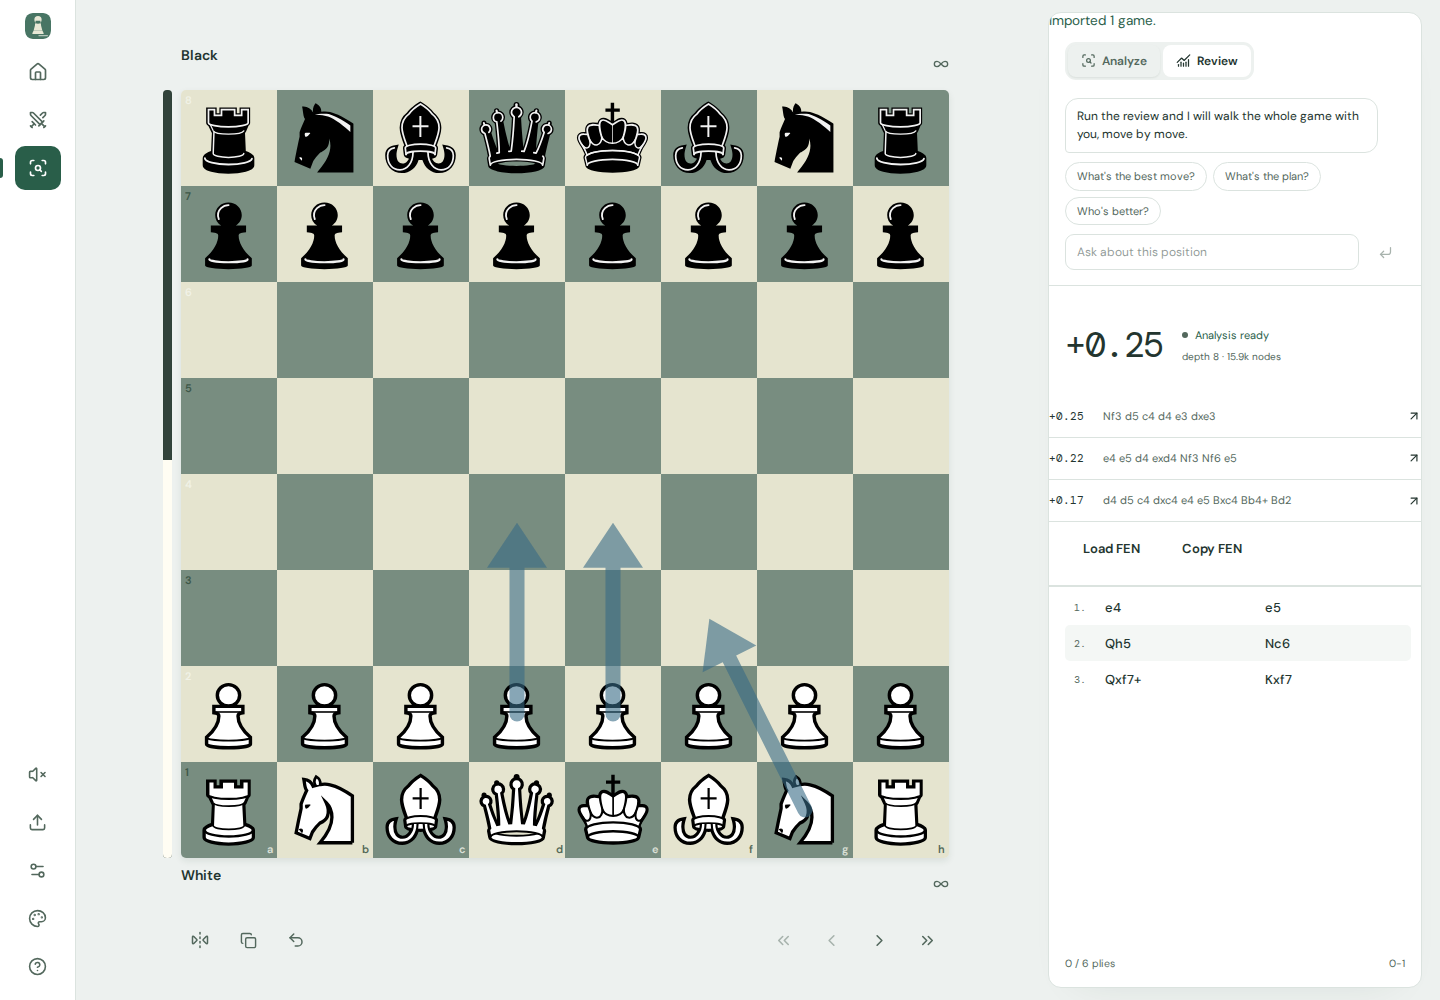
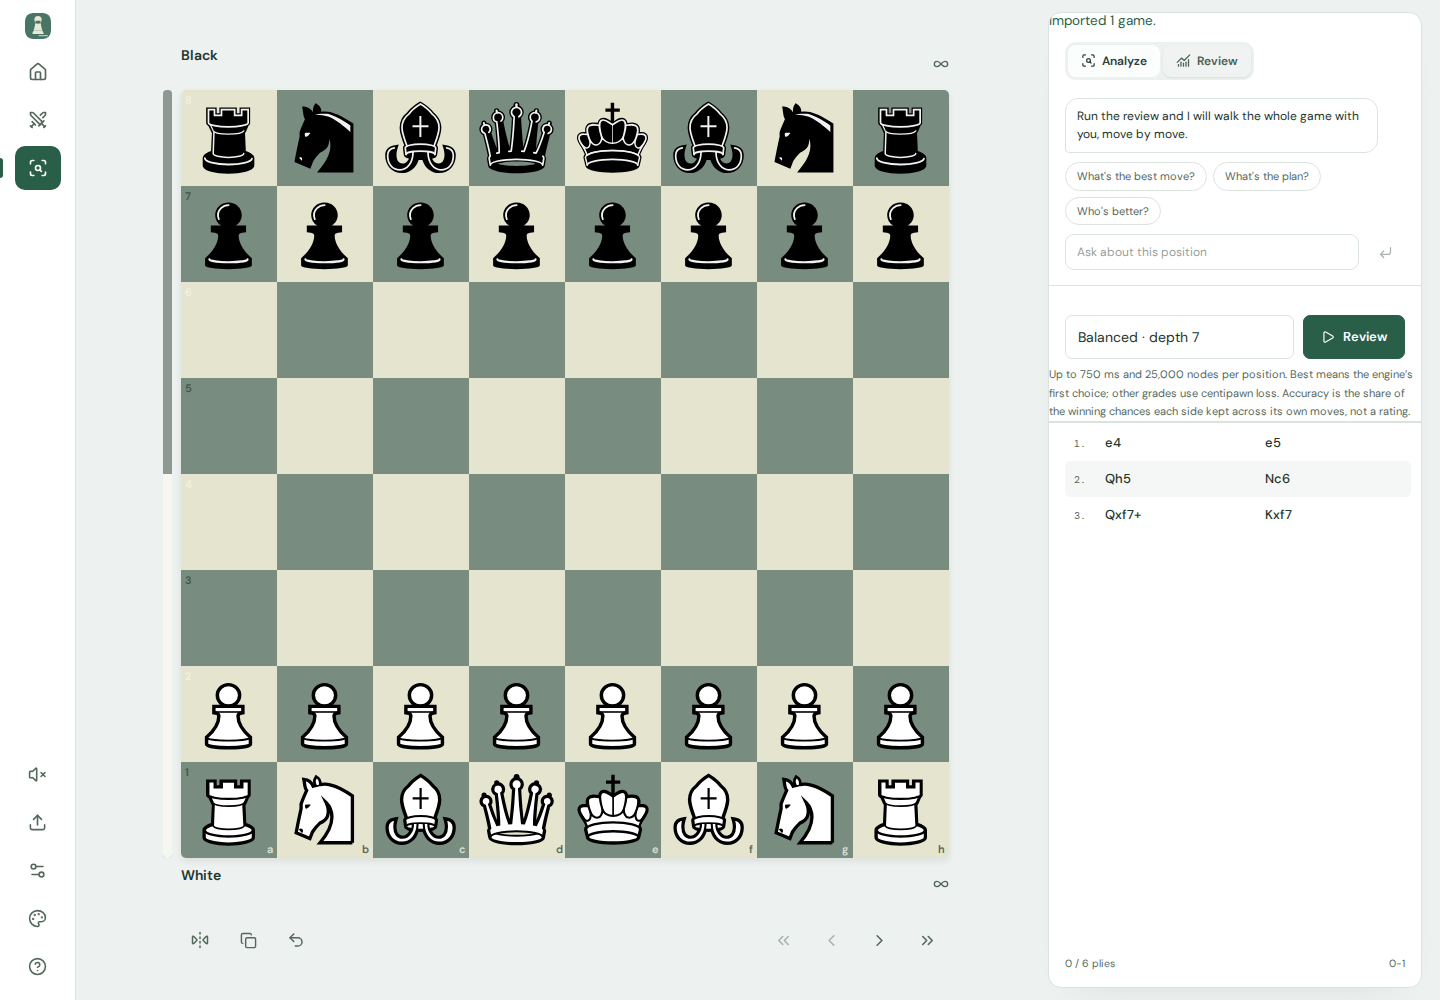
docs: record the rail's decided fill and each side's accuracy
The verification record gains the third pass over the shipped screens: the
decided rail, the settled-value rule behind it, and the accuracy report that
arrives with the end of a game. Four frames from the run that proved it — the
finished game in both themes on both sizes — join the evidence set, and the
review frames are re-captured because the study card's own fine print changed
with the accuracy report.

diff --git a/docs/verification.md b/docs/verification.md
@@ -214,8 +214,11 @@ npm run check:commit
 ## Visual evidence and limits
 
 Final production screenshots are kept as `docs/desktop-home.png`,
-`docs/desktop-play.png`, `docs/mobile-play.png`, `docs/desktop-review.png`, and
-`docs/mobile-review.png`. The published set depicts the `a27443b` shell; the same
+`docs/desktop-play.png`, `docs/mobile-play.png`, `docs/desktop-review.png`,
+`docs/mobile-review.png`, `docs/desktop-end-of-game.png`,
+`docs/desktop-end-of-game-dark.png`, `docs/mobile-end-of-game.png`, and
+`docs/mobile-end-of-game-dark.png` (the last four are the finished game, light
+and dark, on both sizes; see "Evaluation rail and accuracy" below). The published set depicts the `a27443b` shell; the same
 files were re-captured on 2026-10-02 from the redesigned shell (Home, Play,
 Study/Review) with real engine replies and a real restored record — still actual
 WASM-driven play, never fabricated UI data. On 2026-10-03 the whole set was
@@ -863,3 +866,65 @@ with their footers whole. Dark theme: the same frames with the dark surfaces.
 **What is not claimed.** The dark pass is Chromium only. The phone frames remain
 390×664 Chromium emulation, not physical hardware. Screenshots are the audit's
 own attachments, so they show exactly the state the assertions ran against.
+
+## Evaluation rail and accuracy (2026-10-03)
+
+Three complaints came out of using the shipped build: a decided game left the
+rail half filled instead of filling it for the side that won; on a phone the
+rail "bumps up to the upper a bit as progress then went back to actual one" move
+after move; and there was no accuracy score at the end of a game.
+
+All three were the same fault seen from different sides. The rail drew whatever
+report happened to be in state against the turn on the board, and the engine
+streams partial reports while it searches: mid-game the rail was showing a
+running guess, and once a game ended the report was cleared, so the rail fell
+back to its unknown half instead of the result. Nothing about a finished game
+reached the rail at all.
+
+- **A decided game fills the rail for its winner.** `resultValue` reads the
+  record's result — `1-0` fills for White, `0-1` for Black, a draw levels the
+  rail — and the rail shows it whenever the board stands on the last ply of a
+  finished game, however that game ended: mate, resignation, a flag or an
+  agreement. A proven mate fills the rail outright as well, so a mate no longer
+  stops at the ceiling of the ordinary curve (`railExtent` saturates at
+  `MATE_CP` rather than at the end of the tanh term).
+- **The rail only shows settled evaluations.** Every finished search is filed
+  against the ply it was run for, in `AppState.evals`; the rail shows the value
+  of the move on the board or the most recent one before it, and never anything
+  from a search still running. A move therefore cannot blank the rail or bump it
+  while the engine thinks, and a takeback or a fresh branch forgets the plies
+  past the cursor instead of leaving a stale number behind.
+- **Accuracy is reported at the end of a game.** Each side's accuracy is the
+  share of the winning chances it kept across its own moves, taken from the same
+  settled evaluations and overridden by the review's deeper points wherever a
+  review covers the game. It appears once the game is over — in the play card at
+  both sizes (on a phone, in the sheet that opens at the end) and in the study
+  card beside the review — and it is never shown mid-game or when only one side
+  has had a move evaluated, so no number is invented. It is not a rating, and
+  the review's own fine print says exactly that.
+
+Unit coverage is `tests/unit/evaluation.test.ts`. The browser suites exercise
+the behaviour directly: "the rail holds its last settled value while a search
+runs" samples the rail fifteen times while the engine answers a move; "a game
+that ends fills the rail for its winner and scores both sides" plays a mate by
+hand in two-player mode and reads the rail and both accuracy figures; "a decided
+game fills the rail for its winner" does the same for an imported game of each
+colour; and "a finished game reports each side its accuracy" runs a real review
+and reads the two numbers back out of the card.
+
+Evidence: `37119975975`, dispatched on `fe2fa59`, eight of eight jobs green for
+both browser projects. The four new frames in `docs/` are that run's own
+attachments. `docs/desktop-end-of-game.png` shows the mate with "Black wins ·
+0-1" and 11 % against 99 % in the play card, the whole game decided; the rail
+beside the board stands empty of White from the board's top edge to its bottom.
+`docs/desktop-end-of-game-dark.png` is the same state in the dark theme, and the
+two `docs/mobile-end-of-game*.png` frames show the phone's sheet arriving with
+the game's end — both accuracy figures, the clocks, the move list — with the
+rail filled for Black behind it. The rail was measured in those frames as well:
+its own column on the desktop light frame is nine pixels of track colour with no
+fill on it, and no cream is inside the rail in either dark frame.
+
+**What is not claimed.** Accuracy is an engine-judged number, not a rating, and
+it is deliberately absent where too little of the game was evaluated to say
+anything. The rail stays a signed evaluation, explicitly not a win probability,
+and the phone frames remain emulated Chromium at 390×664.
